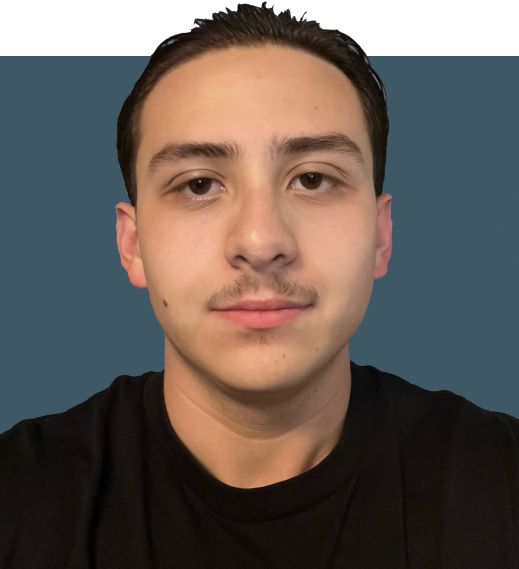
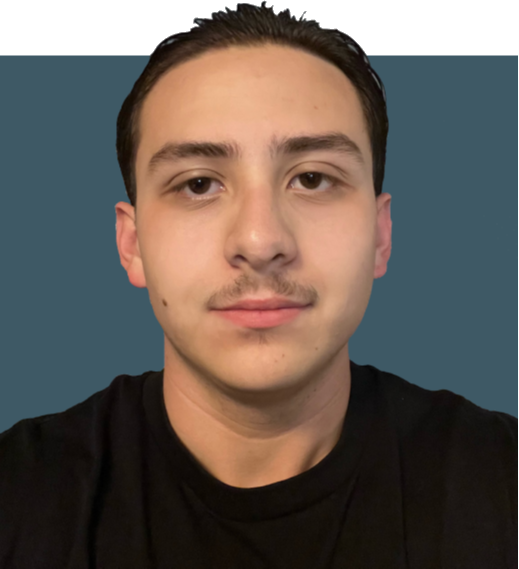
Updated Exectuive page

diff --git a/executive.html b/executive.html
@@ -175,7 +175,6 @@
       color: #FFF;
     }
 
-
 /* email hyper links */
 
 
@@ -191,6 +190,9 @@ a:visited {
   color: #3E5965;
 }
 
+#JZ{
+  transform: translateY(-2%);
+}
   </style>
 </head>
 
@@ -251,8 +253,6 @@ a:visited {
     
   </div>
 
-
-
   <!-- Start of img grids -->
 
   <div class="image-container">
@@ -271,9 +271,8 @@ a:visited {
   <div class="image-container">
     <h2 class="gridName">Van Anderson</h2>
     <br>
-    <br>
-    <img class = "exec-img" src="assets/images/squarePFP.png" alt="Van Anderson">
-   
+    <img class = "exec-img" src="assets/images/van.png" alt="Van Anderson">
+
     <!-- Position, Major, Email -->
     <br>
     <h3 class="gridINFO">Secretary</h3>
@@ -286,10 +285,9 @@ a:visited {
   <div class="image-container">
   
     <h2 class="gridName"> Jason Zheng </h2>
-    <img class = "exec-img" src="assets/images/jason.png" alt="Jason Zheng">
+    <img class = "exec-img" id="JZ" src="assets/images/jason.png" alt="Jason Zheng">
     
     <!-- Position, Major, Email -->
-    <br>
     <h3 class="gridINFO"> Treasurer </h3> 
     <h3 class="gridINFO"> Computer Science </h3> 
     <h3 class="gridINFO"><a href="mailto:treasurer.shape.iit@gmail.com">Treasurer.shape.iit@gmail.com</a></h3> 
@@ -301,8 +299,8 @@ a:visited {
   
   <div class="image-container">
   
-  <h2 class="gridName"> Damian Samano </h2>
-  <img class = "exec-img" src="assets/images/damian.png" alt="Damian Samano">
+    <h2 class="gridName"> Damian Samano </h2>
+    <img class = "exec-img" src="assets/images/damian.png" alt="Damian Samano">
     
     <!-- Position, Major, Email -->
     <br>
@@ -345,7 +343,7 @@ a:visited {
 
 <div class="image-container">
     <h2 class="gridName"> Denny Hernandez </h2>
- <br>
+     <br>
      <img class = "exec-img" src="assets/images/denny.png" alt="Denny Hernandez">
      
      <!-- Position, Major, Email -->
@@ -353,9 +351,43 @@ a:visited {
      <h3 class="gridINFO"> Recruitment Manager </h3> 
      <h3 class="gridINFO"> Computer Science </h3> 
      <h3 class="gridINFO"> TBD </h3>  
-   </div>
+</div>
 
+<div class="image-container">
+  <h2 class="gridName"> Raymundo Manzo </h2>
+<br>
+   <img class = "exec-img" src="assets/images/ray.png" alt="Raymundo Manzo">
+   
+   <!-- Position, Major, Email -->
+   <br>
+   <h3 class="gridINFO"> Projects Evaluator </h3> 
+   <h3 class="gridINFO"> TBD </h3> 
+   <h3 class="gridINFO"> TBD </h3>  
+</div>
 
+<div class="image-container">
+  <h2 class="gridName"> Malachi Rosario </h2>
+<br>
+   <img class = "exec-img" src="assets/images/malachi.png" alt="Malachi Rosario">
+   
+   <!-- Position, Major, Email -->
+   <br>
+   <h3 class="gridINFO"> Events Manager </h3> 
+   <h3 class="gridINFO"> TBD </h3> 
+   <h3 class="gridINFO"> TBD </h3>  
+</div>
+
+<div class="image-container">
+  <h2 class="gridName"> Karan Batra </h2>
+<br>
+   <img class = "exec-img" src="assets/images/squarePFP.png" alt="Karan Batra">
+   
+   <!-- Position, Major, Email -->
+   <br>
+   <h3 class="gridINFO"> Graduate Advisor </h3> 
+   <h3 class="gridINFO"> TBD </h3> 
+   <h3 class="gridINFO"> TBD </h3>  
+</div>
 
   <footer>
     <div class="footer-container">
